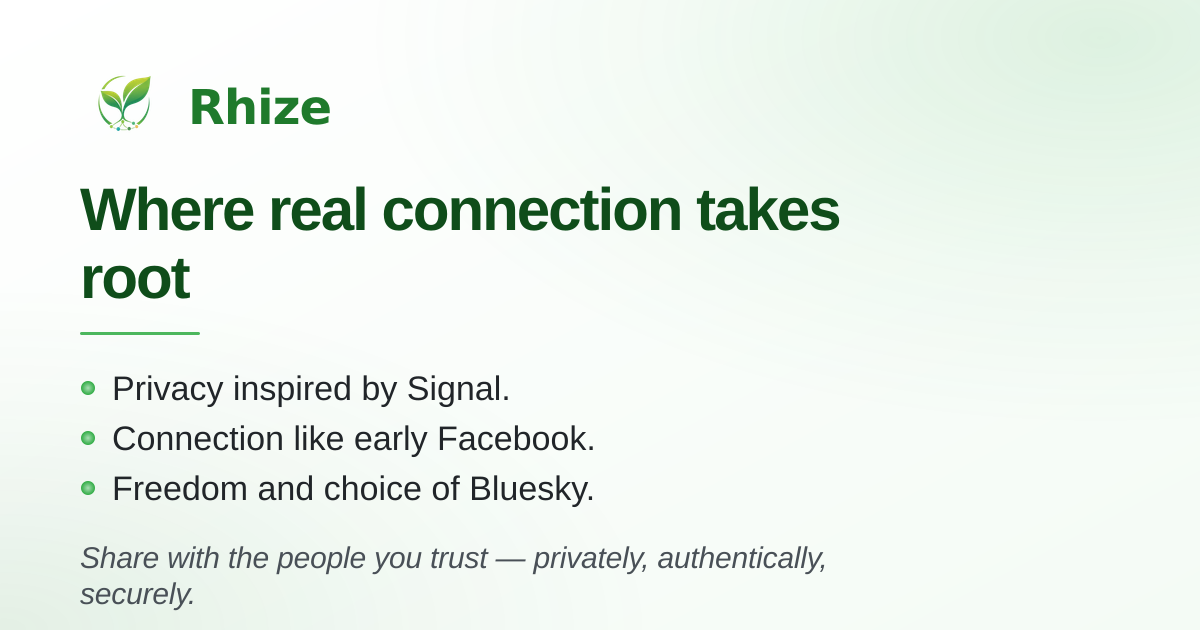
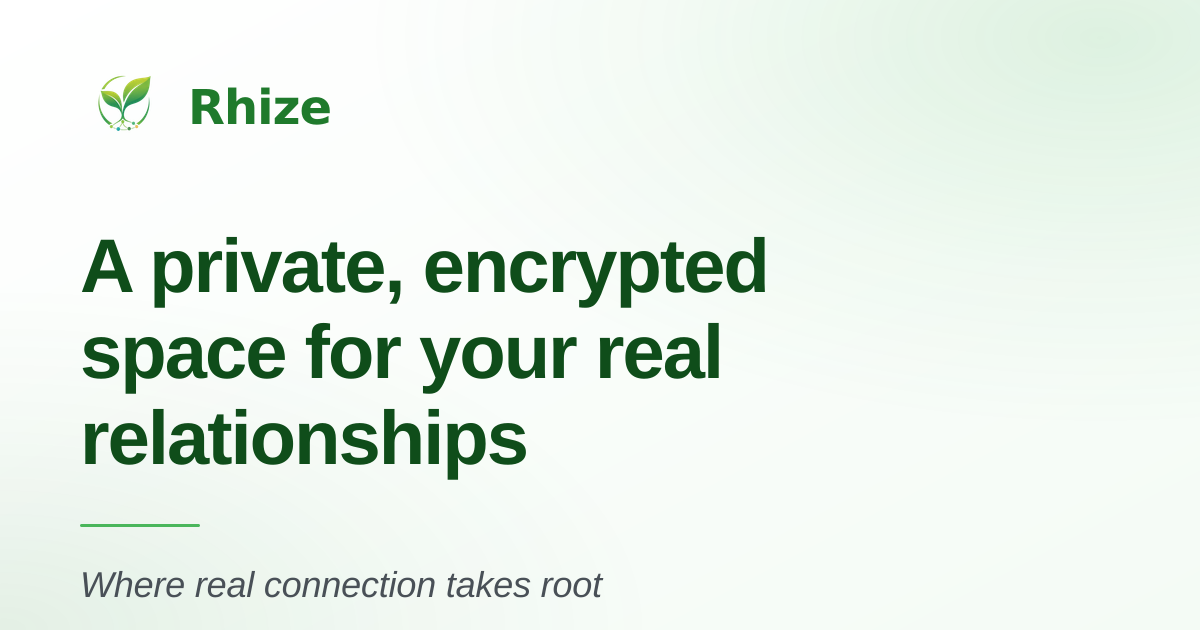
Regenerate OG images and add /bsky variant
- Drop the three pillar bullets from the OG image so only the hero
  heading and tagline appear, and resize the heading to fill the
  freed vertical space.
- Add /bsky-specific OG images (en + es) that lead with
  "Add a private, encrypted layer to Bluesky". Wire /bsky and
  /es/bsky to use them.
- Expand each page's meta description to include the hero heading
  alongside the three pillars and tagline, so the text below the
  share card mirrors the hero copy in full.
- Refresh the SHARE_DESCRIPTION fallback in Base.astro to match
  the new tagline (the old one referenced the retired tagline).

https://claude.ai/code/session_01DvTaDWyUET5DBcMAeGxdCN

Changed region(s): [[0.0617, 0.5127, 0.6167, 0.8444], [0.0617, 0.3016, 0.7092, 0.4825], [0.0617, 0.8746, 0.6783, 0.9651]]

diff --git a/src/content/pages/bsky.en.ts b/src/content/pages/bsky.en.ts
@@ -4,7 +4,8 @@ const bskyContent: typeof indexContent = {
   ...indexContent,
   meta: {
     title: 'Rhize — Add a private, encrypted layer to Bluesky',
-    description: indexContent.meta.description,
+    description:
+      'Add a private, encrypted layer to Bluesky. Privacy inspired by Signal. Connection like early Facebook. Freedom and choice of Bluesky. Where real connection takes root.',
   },
   hero: {
     ...indexContent.hero,

diff --git a/src/content/pages/bsky.es.ts b/src/content/pages/bsky.es.ts
@@ -4,7 +4,8 @@ const bskyContent: typeof indexContent = {
   ...indexContent,
   meta: {
     title: 'Rhize — Añade una capa privada y cifrada a Bluesky',
-    description: indexContent.meta.description,
+    description:
+      'Añade una capa privada y cifrada a Bluesky. Privacidad inspirada en Signal. Conexión como en los primeros días de Facebook. Libertad y elección de Bluesky. Donde la conexión real echa raíces.',
   },
   hero: {
     ...indexContent.hero,

diff --git a/src/content/pages/index.en.ts b/src/content/pages/index.en.ts
@@ -2,7 +2,7 @@ export default {
   meta: {
     title: 'Rhize — Where real connection takes root',
     description:
-      'Privacy inspired by Signal. Connection like early Facebook. Freedom and choice of Bluesky. Where real connection takes root.',
+      'A private, encrypted space for your real relationships. Privacy inspired by Signal. Connection like early Facebook. Freedom and choice of Bluesky. Where real connection takes root.',
   },
   hero: {
     heading: 'A private, encrypted space for your real relationships',

diff --git a/src/content/pages/index.es.ts b/src/content/pages/index.es.ts
@@ -2,7 +2,7 @@ export default {
   meta: {
     title: 'Rhize — Donde la conexión real echa raíces',
     description:
-      'Privacidad inspirada en Signal. Conexión como en los primeros días de Facebook. Libertad y elección de Bluesky. Donde la conexión real echa raíces.',
+      'Un espacio privado y cifrado para tus relaciones reales. Privacidad inspirada en Signal. Conexión como en los primeros días de Facebook. Libertad y elección de Bluesky. Donde la conexión real echa raíces.',
   },
   hero: {
     heading: 'Un espacio privado y cifrado para tus relaciones reales',